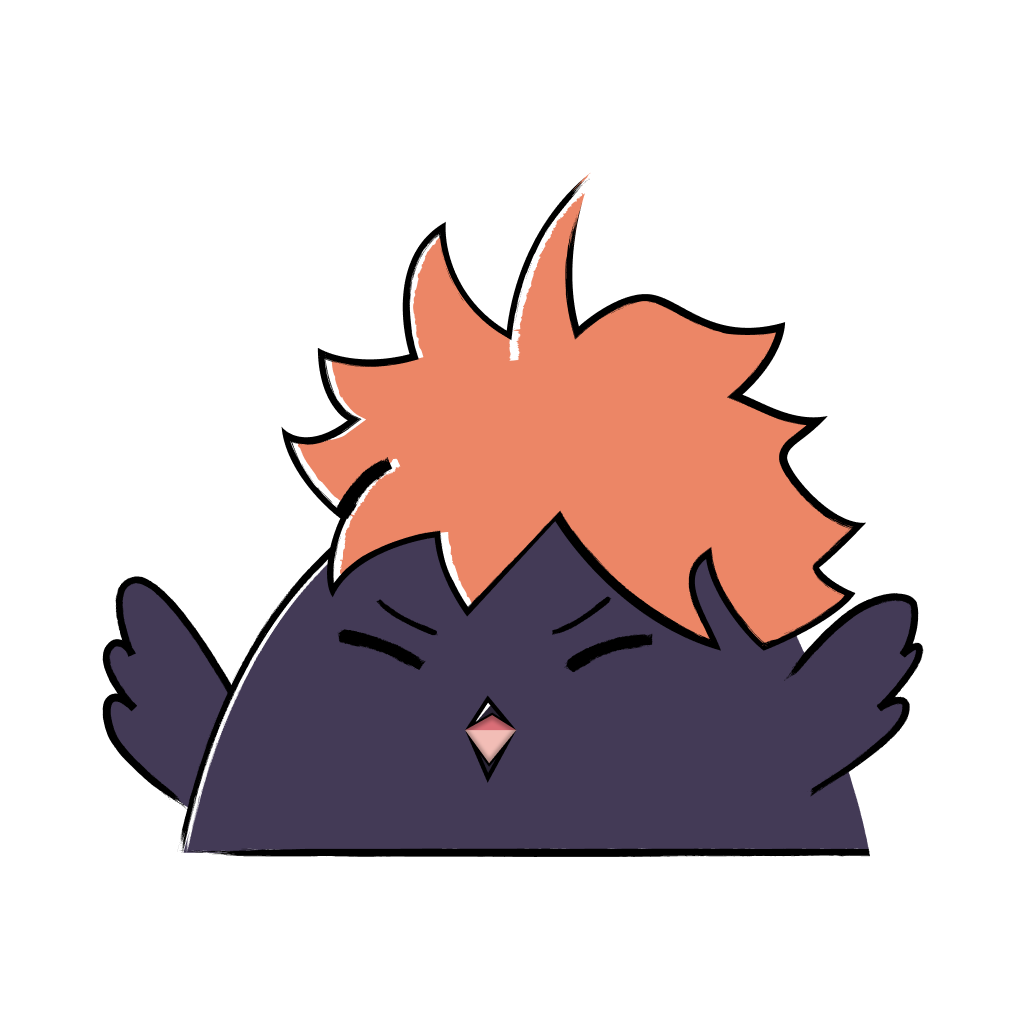
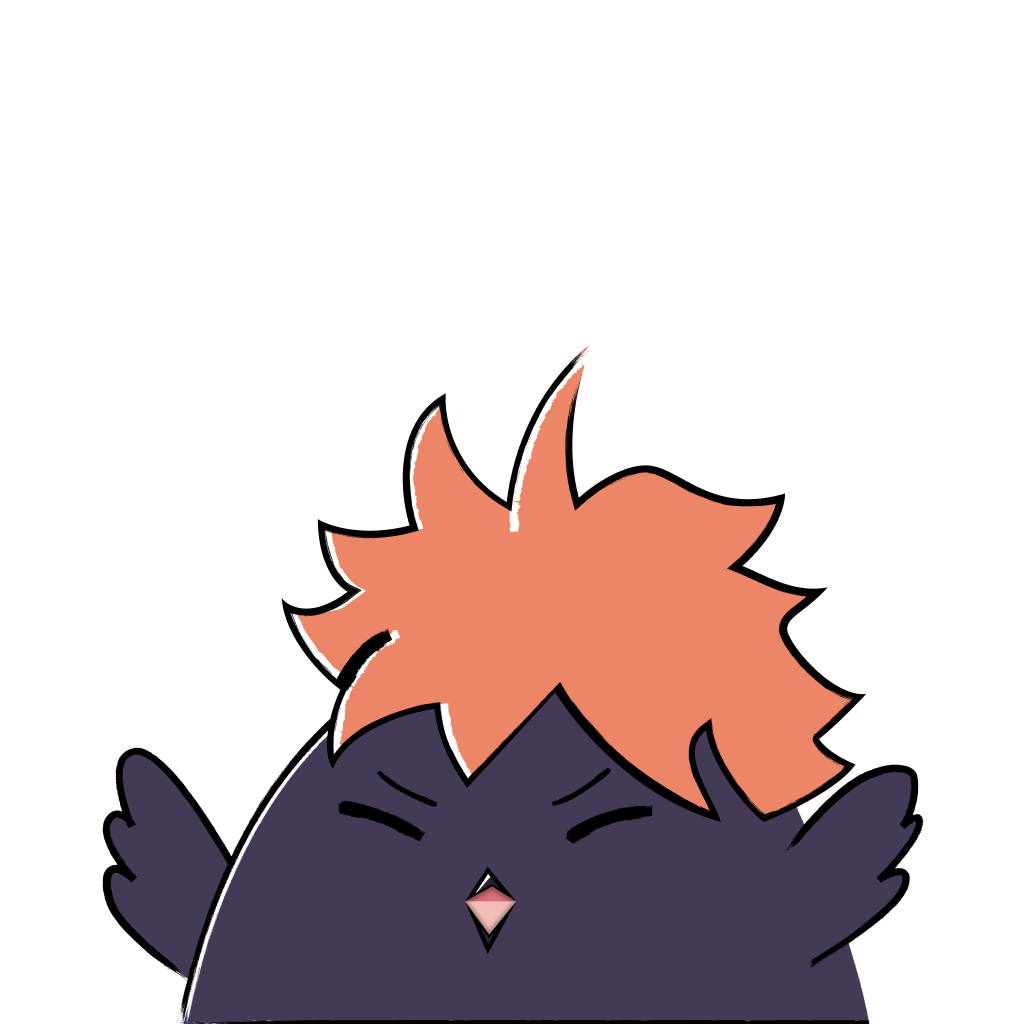
Added the snooze, stopping logic

diff --git a/Sources/WaterMascot/AppDelegate.swift b/Sources/WaterMascot/AppDelegate.swift
@@ -14,7 +14,10 @@ final class AppDelegate: NSObject, NSApplicationDelegate, NSWindowDelegate {
     private var reminderTimer: Timer?
     private var testReminderTimer: Timer?
     private var celebrationTimer: Timer?
+    private var autoDismissTimer: Timer?
+    private var retryReminderTimer: Timer?
     private var scheduledReminderDate: Date?
+    private var currentCycleNextHourlyDate: Date?
     private var isReminderVisible = false
 
     func applicationDidFinishLaunching(_ notification: Notification) {
@@ -27,6 +30,8 @@ final class AppDelegate: NSObject, NSApplicationDelegate, NSWindowDelegate {
         reminderTimer?.invalidate()
         testReminderTimer?.invalidate()
         celebrationTimer?.invalidate()
+        autoDismissTimer?.invalidate()
+        retryReminderTimer?.invalidate()
     }
 
     private func configureStatusItem() {
@@ -80,6 +85,7 @@ final class AppDelegate: NSObject, NSApplicationDelegate, NSWindowDelegate {
             return
         }
 
+        currentCycleNextHourlyDate = scheduler.nextClockHour(after: now)
         showReminder(reason: .scheduled)
     }
 
@@ -88,6 +94,11 @@ final class AppDelegate: NSObject, NSApplicationDelegate, NSWindowDelegate {
             return
         }
 
+        if currentCycleNextHourlyDate == nil {
+            currentCycleNextHourlyDate = scheduler.nextClockHour(after: Date())
+        }
+
+        autoDismissTimer?.invalidate()
         isReminderVisible = true
         let message = messages.randomReminder()
         sendNotification(message: message)
@@ -96,12 +107,12 @@ final class AppDelegate: NSObject, NSApplicationDelegate, NSWindowDelegate {
             message: message,
             reason: reason,
             onDone: { [weak self] in
-                self?.closeMascotWindow()
+                self?.endCurrentReminderCycle()
                 self?.showCelebration()
             },
             onSnooze: { [weak self] in
                 self?.closeMascotWindow()
-                self?.scheduleSnooze()
+                self?.scheduleRetryReminder()
             }
         )
 
@@ -110,14 +121,38 @@ final class AppDelegate: NSObject, NSApplicationDelegate, NSWindowDelegate {
         window.contentView = NSHostingView(rootView: view)
         window.makeKeyAndOrderFront(nil)
         mascotWindow = window
+
+        autoDismissTimer = Timer.scheduledTimer(withTimeInterval: settings.autoDismissReminderSeconds, repeats: false) { [weak self] _ in
+            self?.autoDismissReminder()
+        }
     }
 
     private func sendNotification(message: String) {
         notifications.send(title: "Water break", body: message)
     }
 
-    private func scheduleSnooze() {
-        Timer.scheduledTimer(withTimeInterval: settings.snoozeMinutes * 60, repeats: false) { [weak self] _ in
+    private func autoDismissReminder() {
+        closeMascotWindow()
+        scheduleRetryReminder()
+    }
+
+    private func scheduleRetryReminder(now: Date = Date()) {
+        retryReminderTimer?.invalidate()
+
+        guard
+            settings.isEnabled,
+            let currentCycleNextHourlyDate,
+            let retryDate = scheduler.nextRetry(
+                after: now,
+                before: currentCycleNextHourlyDate,
+                interval: settings.snoozeMinutes * 60,
+                cutoffBeforeNextHour: settings.retryCutoffBeforeNextHour
+            )
+        else {
+            return
+        }
+
+        retryReminderTimer = Timer.scheduledTimer(withTimeInterval: max(1, retryDate.timeIntervalSince(now)), repeats: false) { [weak self] _ in
             self?.showReminder(reason: .snooze)
         }
     }
@@ -133,7 +168,7 @@ final class AppDelegate: NSObject, NSApplicationDelegate, NSWindowDelegate {
         celebrationWindow?.close()
 
         let view = MascotCelebrationView(message: message)
-        let window = makeFloatingMascotWindow(width: 420, height: 190)
+        let window = makeFloatingMascotWindow(width: 470, height: 180)
         window.contentView = NSHostingView(rootView: view)
         window.makeKeyAndOrderFront(nil)
         celebrationWindow = window
@@ -164,23 +199,35 @@ final class AppDelegate: NSObject, NSApplicationDelegate, NSWindowDelegate {
 
     private func floatingWindowOrigin(width: CGFloat, height: CGFloat) -> NSPoint {
         let visibleFrame = NSScreen.main?.visibleFrame ?? NSRect(x: 0, y: 0, width: 1440, height: 900)
-        let padding: CGFloat = 24
+        let trailingPadding: CGFloat = 24
+        let dockPerchOffset: CGFloat = -18
 
         return NSPoint(
-            x: visibleFrame.maxX - width - padding,
-            y: visibleFrame.minY + padding
+            x: visibleFrame.maxX - width - trailingPadding,
+            y: visibleFrame.minY + dockPerchOffset
         )
     }
 
     private func closeMascotWindow() {
+        autoDismissTimer?.invalidate()
+        autoDismissTimer = nil
         isReminderVisible = false
         mascotWindow?.delegate = nil
         mascotWindow?.close()
         mascotWindow = nil
     }
 
+    private func endCurrentReminderCycle() {
+        retryReminderTimer?.invalidate()
+        retryReminderTimer = nil
+        currentCycleNextHourlyDate = nil
+        closeMascotWindow()
+    }
+
     func windowWillClose(_ notification: Notification) {
         if notification.object as? NSWindow === mascotWindow {
+            autoDismissTimer?.invalidate()
+            autoDismissTimer = nil
             isReminderVisible = false
             mascotWindow = nil
         }
@@ -202,6 +249,8 @@ final class AppDelegate: NSObject, NSApplicationDelegate, NSWindowDelegate {
         reminderTimer?.invalidate()
         testReminderTimer?.invalidate()
         celebrationTimer?.invalidate()
+        autoDismissTimer?.invalidate()
+        retryReminderTimer?.invalidate()
     }
 
     @objc private func quit() {

diff --git a/Sources/WaterMascotCore/HourlyReminderScheduler.swift b/Sources/WaterMascotCore/HourlyReminderScheduler.swift
@@ -20,11 +20,7 @@ public struct HourlyReminderScheduler {
     }
 
     public func nextWholeHour(after date: Date, within activeHours: ActiveHours) -> Date {
-        let nextHour = calendar.nextDate(
-            after: date,
-            matching: DateComponents(minute: 0, second: 0),
-            matchingPolicy: .nextTime
-        ) ?? date.addingTimeInterval(3600)
+        let nextHour = nextClockHour(after: date)
 
         if isWithinActiveHours(nextHour, activeHours: activeHours) {
             return nextHour
@@ -33,9 +29,52 @@ public struct HourlyReminderScheduler {
         return nextStartOfActiveHours(after: date, activeHours: activeHours)
     }
 
+    public func nextClockHour(after date: Date) -> Date {
+        let nextHour = calendar.nextDate(
+            after: date,
+            matching: DateComponents(minute: 0, second: 0),
+            matchingPolicy: .nextTime
+        ) ?? date.addingTimeInterval(3600)
+
+        return nextHour
+    }
+
     public func isWithinActiveHours(_ date: Date, activeHours: ActiveHours) -> Bool {
         let hour = calendar.component(.hour, from: date)
         return hour >= activeHours.startHour && hour <= activeHours.endHour
+    }
+
+    public func nextRetry(
+        after date: Date,
+        before nextHourlyReminder: Date,
+        interval: TimeInterval,
+        cutoffBeforeNextHour: TimeInterval
+    ) -> Date? {
+        guard interval > 0 else {
+            return nil
+        }
+
+        guard
+            let currentHour = calendar.dateInterval(of: .hour, for: date)?.start,
+            let nextRetryDate = nextIntervalBoundary(after: date, from: currentHour, interval: interval)
+        else {
+            return nil
+        }
+
+        let latestAllowedRetry = nextHourlyReminder.addingTimeInterval(-cutoffBeforeNextHour)
+
+        guard nextRetryDate <= latestAllowedRetry else {
+            return nil
+        }
+
+        return nextRetryDate
+    }
+
+    private func nextIntervalBoundary(after date: Date, from startDate: Date, interval: TimeInterval) -> Date? {
+        let elapsed = date.timeIntervalSince(startDate)
+        let completedIntervals = floor(elapsed / interval)
+        let nextInterval = completedIntervals + 1
+        return Date(timeInterval: nextInterval * interval, since: startDate)
     }
 
     private func nextStartOfActiveHours(after date: Date, activeHours: ActiveHours) -> Date {

diff --git a/Tests/WaterMascotTests/HourlyReminderSchedulerTests.swift b/Tests/WaterMascotTests/HourlyReminderSchedulerTests.swift
@@ -40,4 +40,51 @@ final class HourlyReminderSchedulerTests: XCTestCase {
         XCTAssertEqual(calendar.component(.hour, from: next), 9)
         XCTAssertEqual(calendar.component(.minute, from: next), 0)
     }
+
+    func testNextRetrySnapsToNextTenMinuteBoundary() throws {
+        let scheduler = HourlyReminderScheduler(calendar: calendar)
+        let date = try XCTUnwrap(calendar.date(from: DateComponents(year: 2026, month: 5, day: 3, hour: 10, minute: 1)))
+        let nextHour = try XCTUnwrap(calendar.date(from: DateComponents(year: 2026, month: 5, day: 3, hour: 11, minute: 0)))
+
+        let retry = try XCTUnwrap(scheduler.nextRetry(
+            after: date,
+            before: nextHour,
+            interval: 10 * 60,
+            cutoffBeforeNextHour: 20 * 60
+        ))
+
+        XCTAssertEqual(calendar.component(.hour, from: retry), 10)
+        XCTAssertEqual(calendar.component(.minute, from: retry), 10)
+    }
+
+    func testNextRetryAllowsTwentyMinutesBeforeNextHour() throws {
+        let scheduler = HourlyReminderScheduler(calendar: calendar)
+        let date = try XCTUnwrap(calendar.date(from: DateComponents(year: 2026, month: 5, day: 3, hour: 10, minute: 35)))
+        let nextHour = try XCTUnwrap(calendar.date(from: DateComponents(year: 2026, month: 5, day: 3, hour: 11, minute: 0)))
+
+        let retry = try XCTUnwrap(scheduler.nextRetry(
+            after: date,
+            before: nextHour,
+            interval: 10 * 60,
+            cutoffBeforeNextHour: 20 * 60
+        ))
+
+        XCTAssertEqual(calendar.component(.hour, from: retry), 10)
+        XCTAssertEqual(calendar.component(.minute, from: retry), 40)
+    }
+
+    func testNextRetryStopsInsideTwentyMinuteCutoff() throws {
+        let scheduler = HourlyReminderScheduler(calendar: calendar)
+        let date = try XCTUnwrap(calendar.date(from: DateComponents(year: 2026, month: 5, day: 3, hour: 10, minute: 40)))
+        let nextHour = try XCTUnwrap(calendar.date(from: DateComponents(year: 2026, month: 5, day: 3, hour: 11, minute: 0)))
+
+        let retry = scheduler.nextRetry(
+            after: date,
+            before: nextHour,
+            interval: 10 * 60,
+            cutoffBeforeNextHour: 20 * 60
+        )
+
+        XCTAssertNil(retry)
+    }
 }

diff --git a/Sources/WaterMascot/MascotReminderView.swift b/Sources/WaterMascot/MascotReminderView.swift
@@ -51,7 +51,8 @@ struct MascotReminderView: View {
             }
             .shadow(color: .black.opacity(0.18), radius: 16, x: 0, y: 8)
         }
-        .padding(18)
+        .padding(.top, 18)
+        .padding(.horizontal, 18)
         .frame(width: 510, height: 190)
         .background(Color.clear)
     }
@@ -63,28 +64,31 @@ struct MascotCelebrationView: View {
     var body: some View {
         HStack(alignment: .bottom, spacing: 12) {
             MascotImageView(assetName: "mascot_celebrate", fallbackSystemImage: "checkmark.circle.fill")
-                .frame(width: 150, height: 150)
+                .frame(width: 145, height: 145)
 
             Text(message)
-                .font(.system(size: 15, weight: .semibold))
+                .font(.system(size: 16, weight: .semibold))
                 .multilineTextAlignment(.leading)
                 .lineLimit(2)
                 .fixedSize(horizontal: false, vertical: true)
-                .padding(.horizontal, 16)
-                .padding(.vertical, 14)
-                .frame(width: 220, alignment: .leading)
+                .padding(.horizontal, 18)
+                .padding(.vertical, 16)
+                .frame(width: 275, alignment: .leading)
+                .frame(minHeight: 74, alignment: .leading)
                 .background(.regularMaterial, in: RoundedRectangle(cornerRadius: 18, style: .continuous))
-                .overlay(alignment: .bottomLeading) {
+                .overlay(alignment: .leading) {
                     SpeechBubbleTail()
                         .fill(.regularMaterial)
                         .frame(width: 18, height: 18)
                         .rotationEffect(.degrees(45))
-                        .offset(x: -7, y: -24)
+                        .offset(x: -7)
                 }
                 .shadow(color: .black.opacity(0.18), radius: 16, x: 0, y: 8)
+                .padding(.bottom, 42)
         }
-        .padding(18)
-        .frame(width: 420, height: 190)
+        .padding(.top, 18)
+        .padding(.horizontal, 18)
+        .frame(width: 470, height: 180)
         .background(Color.clear)
     }
 }

diff --git a/Sources/WaterMascotCore/ReminderSettings.swift b/Sources/WaterMascotCore/ReminderSettings.swift
@@ -4,6 +4,8 @@ public final class ReminderSettings {
     public var isEnabled = true
     public var activeHours = ActiveHours.standard
     public var snoozeMinutes: TimeInterval = 10
+    public var autoDismissReminderSeconds: TimeInterval = 60
+    public var retryCutoffBeforeNextHour: TimeInterval = 20 * 60
     public var missedReminderGracePeriod: TimeInterval = 90
 
     public init() {}
